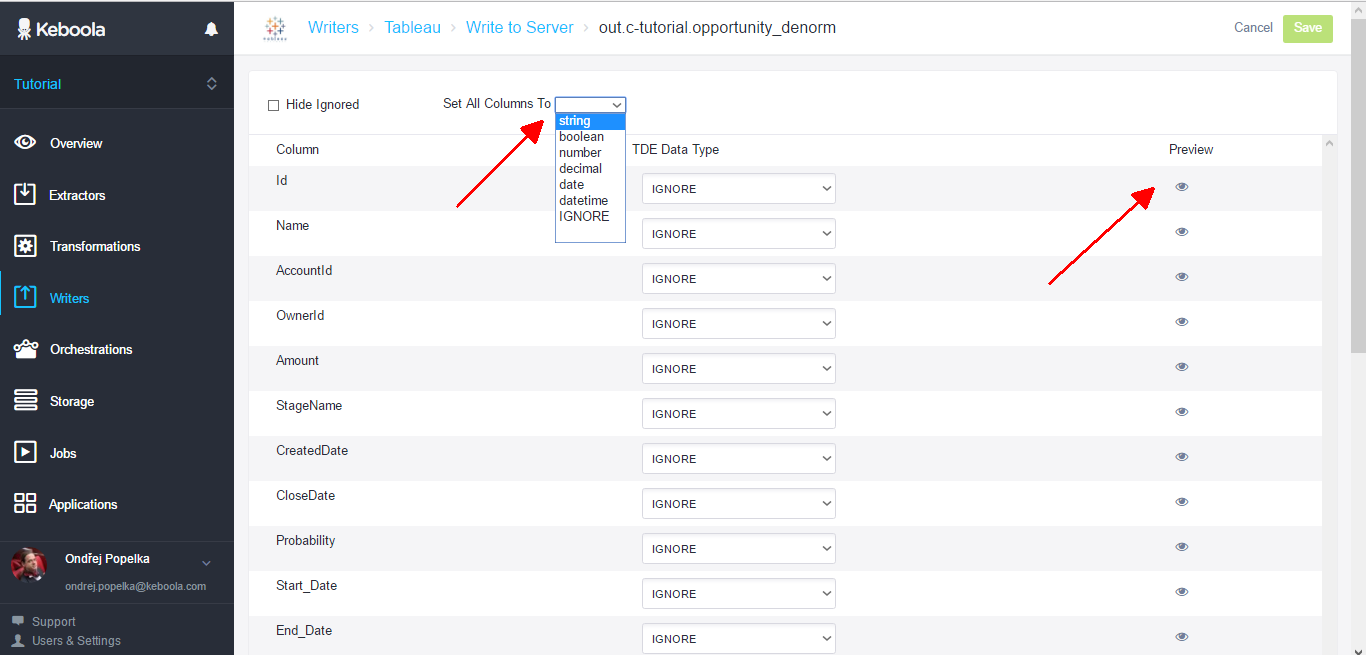
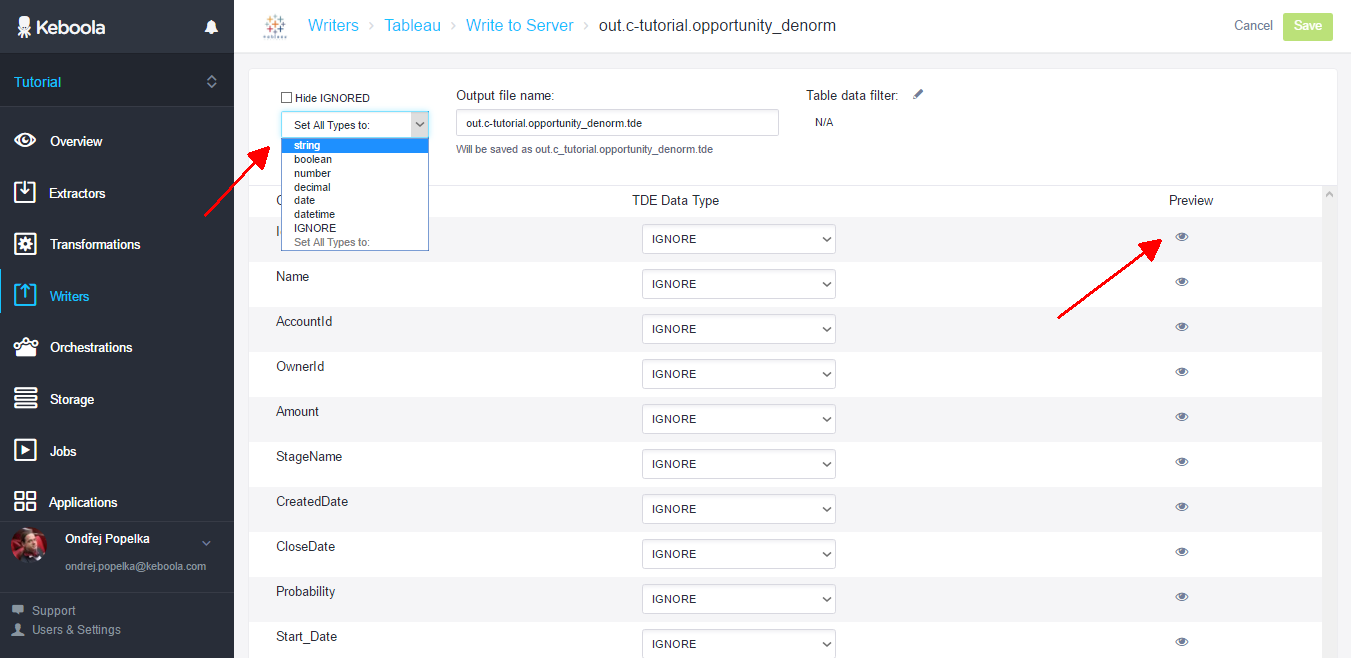
update screenshots

diff --git a/overview/tutorial/write/index.md b/overview/tutorial/write/index.md
@@ -54,7 +54,7 @@ represent the type of values stored in the column. Additionally, you can `IGNORE
 into Tableau at all.
 
 Since most columns ins the `opportunity_denorm` table are strings (characters), you can start 
-with `Set All Columns to` and select `string` to quickly set them. Then use the **Preview** to peek at
+with `Set All Types to` and select `string` to quickly set them. Then use the **Preview** to peek at
 the contents of each column and set its type accordingly.
 
 {: .image-popup}
